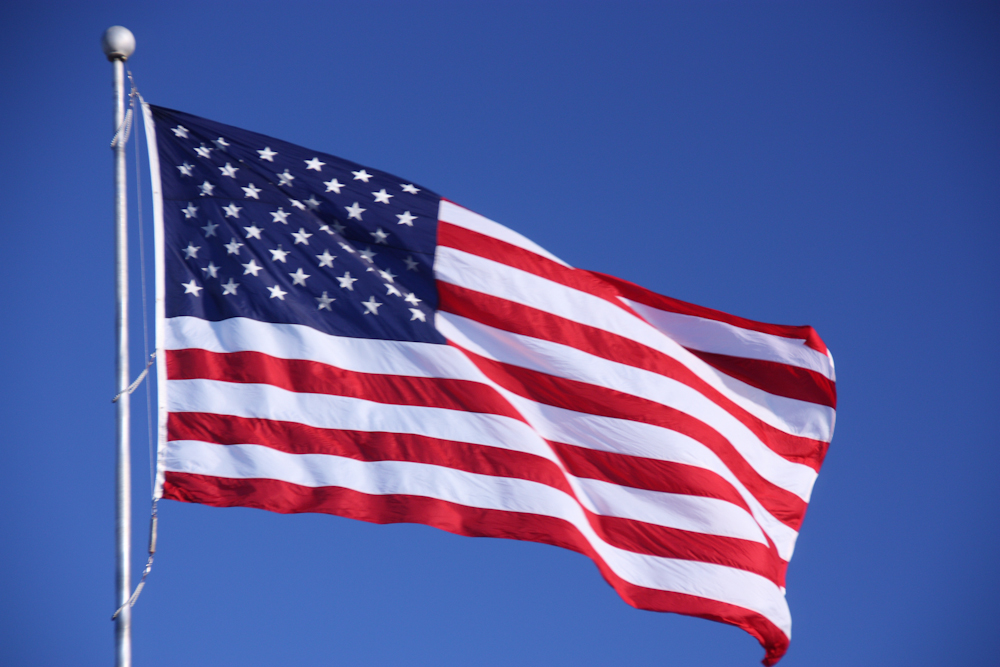
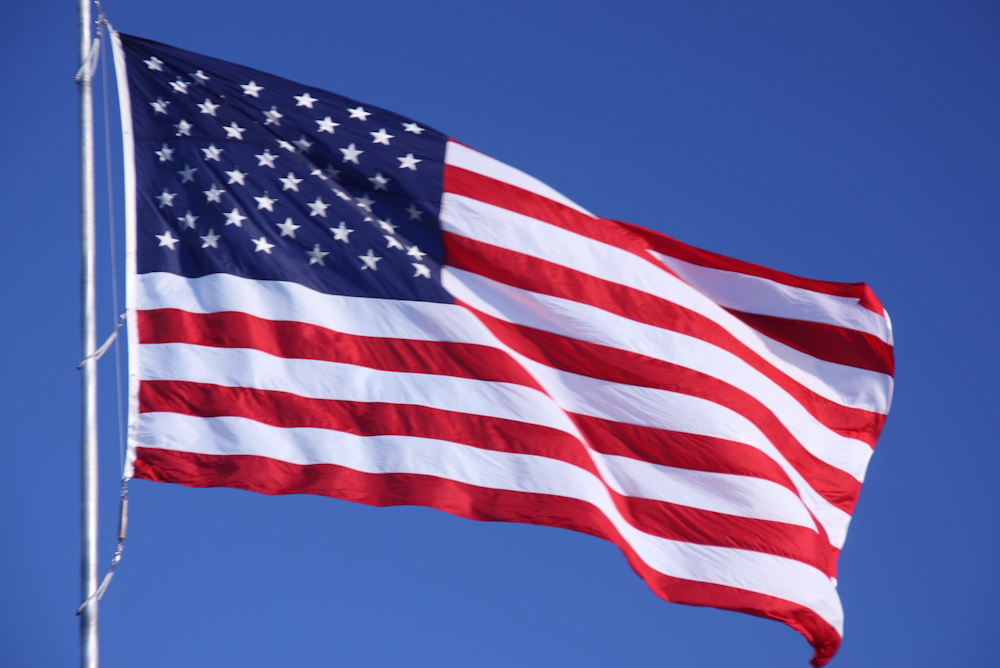
changed one of the images used in the slid show

diff --git a/index.html b/index.html
@@ -32,8 +32,8 @@
     
         <div class="mySlides fade">
             <div class="numbertext">3 / 6</div>
-            <img class="slideshow-img" src=".\img\small\Louisville_Bat.jpg">
-            <div class="text">Louisville Slugger Museum</div>
+            <img class="slideshow-img" src=".\img\small\TaylorsvilleLake.jpg">
+            <div class="text">Lake View</div>
         </div>
     
         <div class="mySlides fade">

diff --git a/css/main.css b/css/main.css
@@ -94,7 +94,7 @@
   max-height: 500px;
   position: relative;
   margin: auto;
-  padding-top: 10px;
+  padding-top: 20px;
 }
 
 /* Hide the images by default */
@@ -103,6 +103,7 @@
 }
 
 .slideshow-img {
+  height: 100%;
   width: 100%;
 }
 
